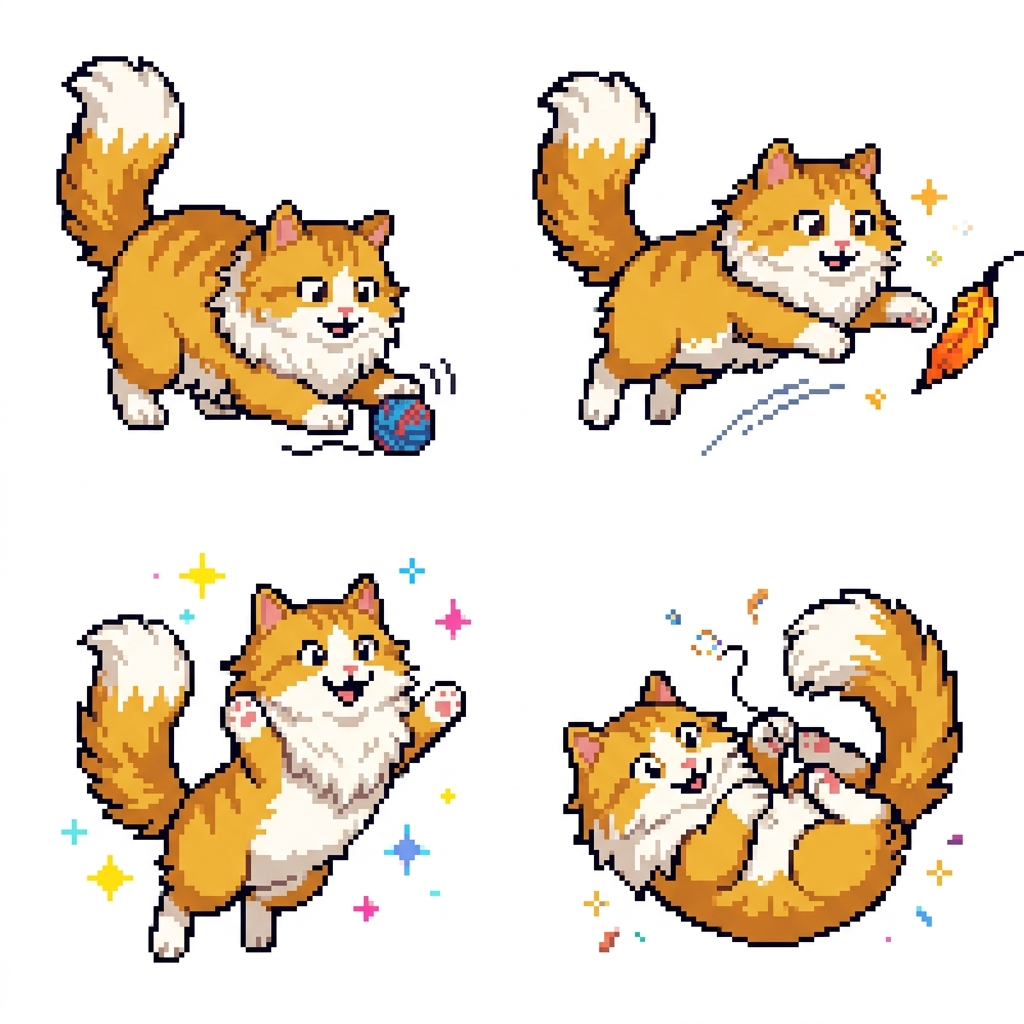
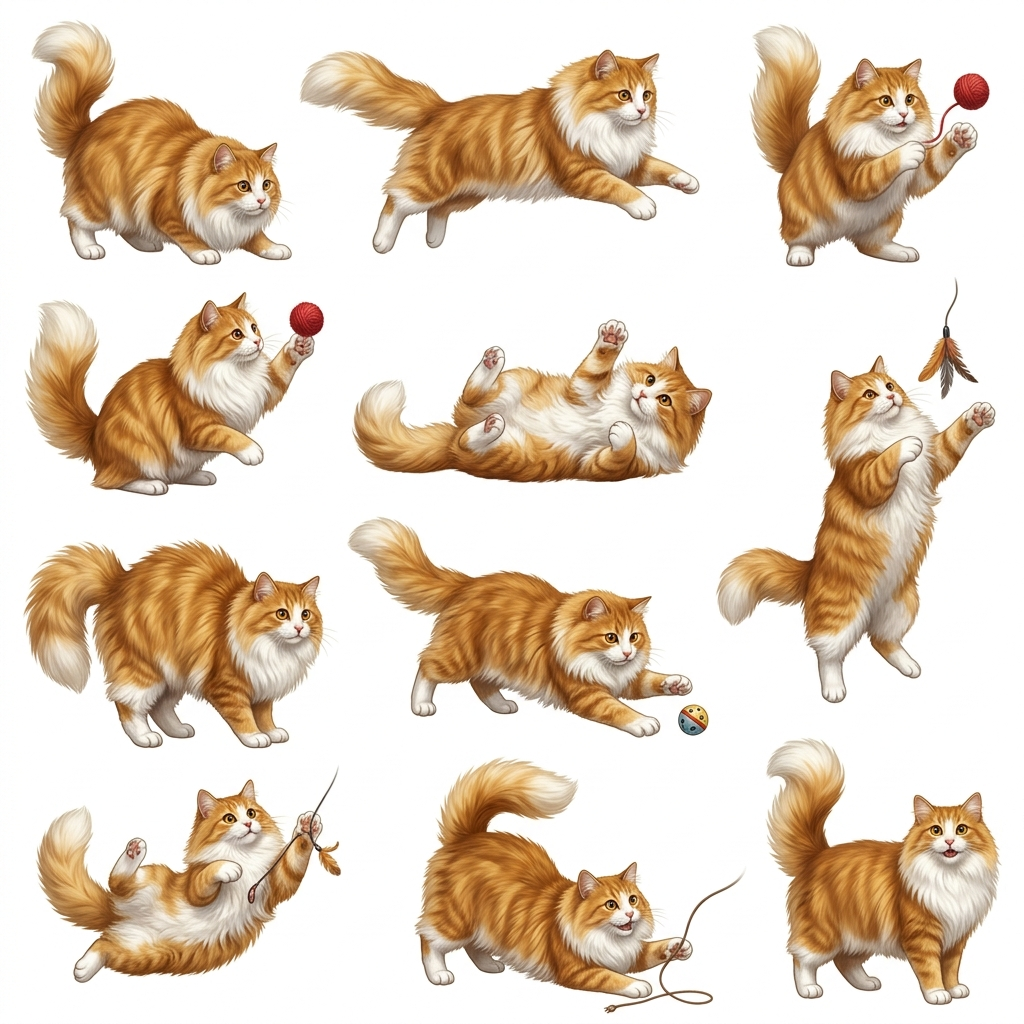
chore: 更新精灵图为写实画风(12帧3x4布局)

diff --git a/src/main.js b/src/main.js
@@ -12,15 +12,15 @@ const { getCurrentWindow } = window.__TAURI__.window;
 const CANVAS_SIZE = 200;
 const FRAME_DURATION = 400; // ms per animation frame (slower, cozier feel)
 
-// Each sprite sheet is a 2x2 grid = 4 frames
-const GRID_COLS = 2;
-const GRID_ROWS = 2;
+// Each sprite sheet is a 3x4 grid = 12 frames
+const GRID_COLS = 3;
+const GRID_ROWS = 4;
 
 // Pet states -> sprite sheets
 const STATES = {
-  eat:   { src: '/assets/cat_eat.png',   frames: 4, label: '吃饭中~' },
-  sleep: { src: '/assets/cat_sleep.png', frames: 4, label: 'Zzz...' },
-  play:  { src: '/assets/cat_play.png',  frames: 4, label: '玩耍中~' },
+  eat:   { src: '/assets/cat_eat.png',   frames: 12, label: '吃饭中~' },
+  sleep: { src: '/assets/cat_sleep.png', frames: 12, label: 'Zzz...' },
+  play:  { src: '/assets/cat_play.png',  frames: 12, label: '玩耍中~' },
 };
 
 // Random messages for each state